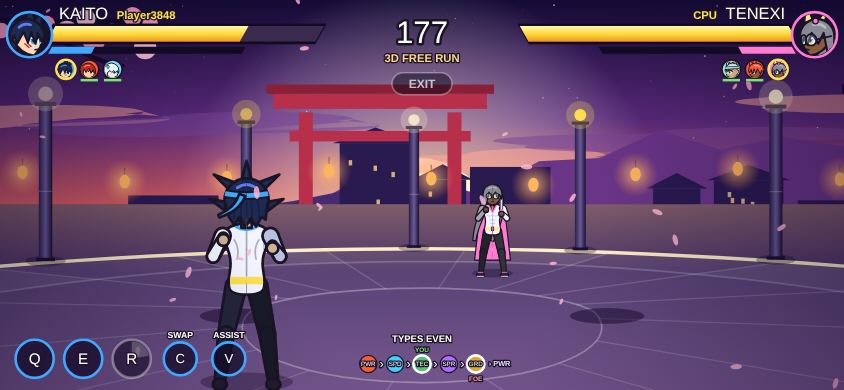
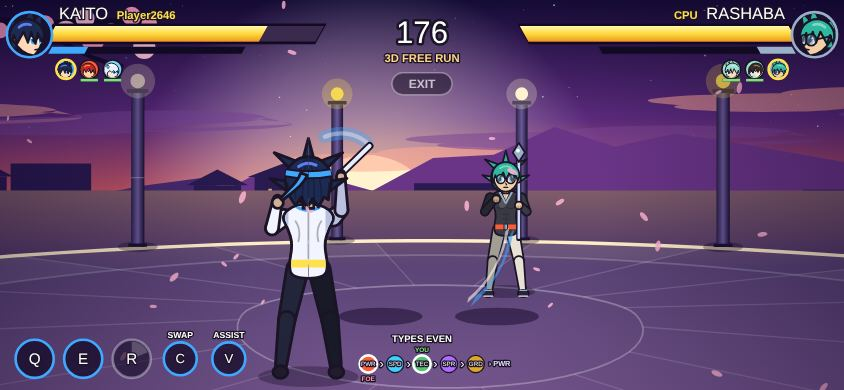
3D FREE RUN: hands held in front, attacks and ultimates drawn from over the shoulder
Claude-Session: https://claude.ai/code/session_017cgwRBCAgYAgyBwMSYA7Tu

diff --git a/look.js b/look.js
@@ -114,8 +114,13 @@ function drawFrontChar(c,o){const SQ=o.stance?1:0,t=o.t||0,ex=o.expr||'',ink=INK
  g.fillStyle='rgba(255,255,255,.14)';g.beginPath();g.ellipse(-4*bk,-101,4*bk,5,0,0,TAU);g.fill();g.strokeStyle='rgba(0,0,0,.22)';g.lineWidth=1.2;g.beginPath();g.moveTo(-10*bk,-97);g.quadraticCurveTo(-5*bk,-93.5,-.6,-97);g.moveTo(.6,-97);g.quadraticCurveTo(5*bk,-93.5,10*bk,-97);g.moveTo(0,-95);g.lineTo(0,-78);g.moveTo(-4*bk,-89);g.lineTo(4*bk,-89);g.moveTo(-3.6*bk,-83.5);g.lineTo(3.6*bk,-83.5);g.stroke();
  g.beginPath();g.moveTo(-6,-116);g.lineTo(6,-116);g.lineTo(0,-103);g.closePath();g.fillStyle=c.skin;g.fill();g.strokeStyle=ink;g.lineWidth=1.4;g.stroke();g.strokeStyle=c.col;g.lineWidth=2.2;g.beginPath();g.moveTo(-7.5,-115);g.lineTo(0,-101.5);g.lineTo(7.5,-115);g.stroke();
  g.fillStyle=c.col2;g.fillRect(-16*bk,-77,32*bk,5.4);g.fillStyle=ink;g.fillRect(-2.6,-78,5.2,7.4);g.fillStyle=c.col;g.fillRect(-1.5,-77,3,5.4);g.restore();
- [-1,1].forEach(sx=>{const up=o.win&&sx<0,fr=o.arms==='front',S={x:sx*17.5*bk,y:-107-br},E=SQ&&!fr&&!up?{x:sx*24*bk,y:-92}:fr?{x:sx*20.5*bk,y:-90}:up?{x:sx*26*bk,y:-121}:{x:sx*21*bk,y:-89},Hd=SQ&&!fr&&!up?{x:sx*(sx<0?11:15)*bk,y:-108+(sx<0?0:7)}:fr?{x:sx*3.4,y:-75}:up?{x:sx*23*bk,y:-144+Math.sin(t*6)*1.5}:{x:sx*19*bk,y:-71};seg2(S,E,5.9*bk,4.6*bk,sx<0?c.topSh:c.top);seg2(E,Hd,4.6*bk,3.5*bk,c.bare?(sx<0?c.skinSh:c.skin):(sx<0?c.topSh:c.top));
-  if(sx>0&&c.weapon!=='fist'&&!fr)weapon(c,Hd,FA[c.weapon]||0,o,false);const gl=c.weapon==='fist',r=gl?(c.fistR||8.2)*.8:4.5;circ(Hd.x,Hd.y+2,r,gl?c.col2:(sx<0?c.skinSh:c.skin),ink,2);g.strokeStyle='rgba(0,0,0,.4)';g.lineWidth=.9;g.beginPath();[-.45,0,.45].forEach(k=>{g.moveTo(Hd.x+k*r,Hd.y+2+r*.15);g.lineTo(Hd.x+k*r,Hd.y+2+r*.95)});g.stroke()});
+ /* o.atk (3D arena): an attack that comes toward the camera: the hitting hand swings in to the middle and grows, a weapon sweeps across, a kick shows the sole of the foot */
+ const AT=o.atk||null,ap=AT?Math.sin(clamp(AT.u,0,1)*Math.PI):0;
+ [-1,1].forEach(sx=>{const up=o.win&&sx<0,fr=o.arms==='front',hit=AT&&AT.k!==1&&sx===AT.arm?ap:0,S={x:sx*17.5*bk,y:-107-br};let E=SQ&&!fr&&!up?{x:sx*24*bk,y:-92}:fr?{x:sx*20.5*bk,y:-90}:up?{x:sx*26*bk,y:-121}:{x:sx*21*bk,y:-89},Hd=SQ&&!fr&&!up?{x:sx*(sx<0?11:15)*bk,y:-108+(sx<0?0:7)}:fr?{x:sx*3.4,y:-75}:up?{x:sx*23*bk,y:-144+Math.sin(t*6)*1.5}:{x:sx*19*bk,y:-71};
+  if(hit){E={x:sx*lerp(24,21,hit)*bk,y:lerp(-92,-101,hit)};Hd={x:sx*lerp(13,6,hit)*bk,y:lerp(-106,-95,hit)}}
+  seg2(S,E,5.9*bk,4.6*bk,sx<0?c.topSh:c.top);seg2(E,Hd,4.6*bk,3.5*bk*(1+.5*hit),c.bare?(sx<0?c.skinSh:c.skin):(sx<0?c.topSh:c.top));
+  if(sx>0&&c.weapon!=='fist'&&!fr)weapon(c,Hd,(FA[c.weapon]||0)+(AT&&AT.k===2?(AT.u-.5)*2.4:0),o,false);const gl=c.weapon==='fist',r=(gl?(c.fistR||8.2)*.8:4.5)*(1+1.25*hit);circ(Hd.x,Hd.y+2,r,gl?c.col2:(sx<0?c.skinSh:c.skin),ink,2);g.strokeStyle='rgba(0,0,0,.4)';g.lineWidth=.9;g.beginPath();[-.45,0,.45].forEach(k=>{g.moveTo(Hd.x+k*r,Hd.y+2+r*.15);g.lineTo(Hd.x+k*r,Hd.y+2+r*.95)});g.stroke()});
+  if(AT&&AT.k===1&&ap>.05){const sx=AT.arm,K={x:sx*10*bk,y:-58-6*ap},Ft={x:sx*7*bk,y:-50+6*ap},fr2=5+11*ap;seg2({x:sx*7*bk,y:-68},K,7.6*bk,6.6*bk,c.pants);seg2(K,Ft,6.6*bk,6*bk,c.pants);g.beginPath();g.ellipse(Ft.x,Ft.y,fr2*.8,fr2,0,0,TAU);g.fillStyle=c.bare?c.skinSh:'#221c2e';g.fill();g.strokeStyle=ink;g.lineWidth=2;g.stroke();g.strokeStyle='rgba(255,255,255,.3)';g.lineWidth=1.3;g.beginPath();g.ellipse(Ft.x,Ft.y,fr2*.5,fr2*.68,0,0,TAU);g.stroke()}
  g.fillStyle=c.skinSh;g.fillRect(-3.8,-121,7.6,8);g.strokeStyle=ink;g.lineWidth=2;g.strokeRect(-3.8,-121,7.6,8);
  g.save();g.translate(0,-132);[-1,1].forEach(sx=>{g.beginPath();g.ellipse(sx*14.4,3,2.4,3.8,0,0,TAU);g.fillStyle=c.skin;g.fill();g.strokeStyle=ink;g.lineWidth=1.8;g.stroke()});
  g.beginPath();g.moveTo(-14,0);g.arc(0,0,14,Math.PI,TAU);g.quadraticCurveTo(14,10.5,6,15.6);g.quadraticCurveTo(0,18.6,-6,15.6);g.quadraticCurveTo(-14,10.5,-14,0);g.closePath();g.fillStyle=c.skin;g.fill();g.strokeStyle=ink;g.lineWidth=2;g.stroke();
@@ -1416,11 +1421,15 @@ try{window.COMBO_TITLE_CH=['KENKO','NETO']}catch(e){}
    /* the body turns to look 3D (Trey): stepping or running into the screen shows the fighter's back, toward the camera shows their front. The turn is a quick swivel: the side view narrows, swaps to the front or back drawing, and widens again; they bob as they run. */
    /* every angle of the body (Trey: a drawing of every angle): the turn goes side view -> three-quarter view -> full front (toward the camera) or full back (into the screen), in both directions, so eight directions in all.
       The three-quarter views are the front or back drawing with the far half of the body drawn narrower than the near half, which is what a body turned 45 degrees looks like. */
-   try{const meF=G.f[G.me||0],frr=A()==='free'&&(f.state==='idle'||f.state==='run'||f.state==='guard'),tn=frr?Math.max(f.a3tn||0,clamp((ph-.45)/.6,0,1)):(f.a3tn||0);if(tn>.03&&!sil&&f.c){
+   try{const meF=G.f[G.me||0],fat=A()==='free'&&f.state==='atk'&&f.mv&&!sil,frr=A()==='free'&&(f.state==='idle'||f.state==='run'||f.state==='guard'||fat),tn=frr?Math.max(f.a3tn||0,clamp((ph-.45)/.6,0,1)):(f.a3tn||0);if(tn>.03&&!sil&&f.c){
      if(tn<.3){const sx=1-.5*(tn/.3);g.translate(f.x,0);g.scale(sx,1);g.translate(-f.x,0)}
      else{const q=clamp((tn-.3)/.7,0,1),far=lerp(.34,1,q*q),near=lerp(.72,1,q),away=frr&&ph>.45?(f===meF):(f.a3td||1)<0,mov=f.state==='run'||f.a3c,fn=away?window.CBACK:(window.CFRONT||drawFrontChar),bob=mov?Math.abs(Math.sin(G.t*11))*5:f.a3s?Math.sin(f.a3s.t/.34*Math.PI)*7:0,sc=f.c.sc||1,fs=(f.face||1)*(away?-1:1);
-      if(fn){g.fillStyle='rgba(10,4,24,.3)';g.beginPath();g.ellipse(f.x,0,34*sc,7,0,0,TAU);g.fill();/* they keep their fighting stance while turned (Trey): legs apart with bent knees and both hands up; the back view walks its legs while moving */const o={t:G.t+f.side*1.7,expr:away?'':'angry',stance:1,walk:mov?G.t*12:0};
-       [1,-1].forEach(h=>{const k=(h===fs?far:near);g.save();g.translate(f.x+(fs*(near-far)*9*sc),f.y-bob);g.scale(k*sc,sc);g.beginPath();g.rect(h>0?0:-260,-420,260,520);g.clip();try{fn(f.c,o)}catch(e){}g.restore()});return}}}
+      if(fn){g.fillStyle='rgba(10,4,24,.3)';g.beginPath();g.ellipse(f.x,0,34*sc,7,0,0,TAU);g.fill();/* they keep their fighting stance while turned (Trey): legs apart with bent knees and both hands up; the back view walks its legs while moving */const o={t:G.t+f.side*1.7,expr:away?'':'angry',stance:1,fwd:1,walk:mov?G.t*12:0};
+       /* hands in front and attacks in front (Trey): in FREE RUN the arms are held in front of the body, and attacks and ultimates are drawn from the same over-the-shoulder view, thrown forward at the opponent (yours away from the camera, theirs toward it) */
+       let lg=0;if(fat){let id='';try{id=mvId(f)||''}catch(e){}const ult=id==='U',wb=['katana','dagger','staff','bo'].includes(f.c.weapon),n=ult?Math.floor(f.st*3.4):(+id[1]||0),u=ult?(f.st*3.4)%1:clamp(f.st/(f.mv.dur||.4),0,1);
+        o.atk={u,k:wb?2:(f.c.weapon==='fist'&&!ult&&(id==='L3'||id==='H'||id==='AH'))?1:0,arm:wb?1:(n%2?1:-1)};o.expr=away?'':'yell';lg=Math.sin(u*Math.PI);
+        if(ult){g.save();g.translate(f.x,f.y-70*sc);for(let r=0;r<3;r++){const q2=(G.t*1.6+r/3)%1;g.globalAlpha=(1-q2)*.6;g.strokeStyle=r%2?'#fff':f.c.col;g.lineWidth=5*(1-q2)+1;g.beginPath();g.ellipse(0,0,(30+q2*90)*sc,(40+q2*110)*sc,0,0,TAU);g.stroke()}g.restore()}}
+       [1,-1].forEach(h=>{const k=(h===fs?far:near);g.save();g.translate(f.x+(fs*(near-far)*9*sc),f.y-bob+(away?-7:8)*lg*sc);g.scale(k*sc*(1+(away?-.05:.09)*lg),sc*(1+(away?-.05:.09)*lg));g.beginPath();g.rect(h>0?0:-260,-420,260,520);g.clip();try{fn(f.c,o)}catch(e){}g.restore()});return}}}
     /* attacks, hits and falls only exist as side drawings; seen from over the shoulder they are drawn narrower, as a body moving into or out of the screen would look */
     if(A()==='free'&&!sil){const q=clamp((ph-.45)/.6,0,1);if(q>0){g.translate(f.x,0);g.scale(lerp(1,.58,q),1);g.translate(-f.x,0)}}
     return df0.apply(this,arguments)}finally{g.restore();

diff --git a/story.js b/story.js
@@ -1769,16 +1769,27 @@ function drawEm2(f){const e=f.em2;if(!e)return;const sc=f.c.sc||1,t=e[1],k=e[0],
  g.restore()}
 /* full body seen from behind */
 function segB(a,b,r0,r1,fill){const dx=b.x-a.x,dy=b.y-a.y,L=Math.hypot(dx,dy)||1,nx=-dy/L,ny=dx/L;g.beginPath();g.moveTo(a.x+nx*r0,a.y+ny*r0);g.lineTo(b.x+nx*r1,b.y+ny*r1);g.arc(b.x,b.y,r1,Math.atan2(ny,nx),Math.atan2(-ny,-nx),true);g.lineTo(a.x-nx*r0,a.y-ny*r0);g.arc(a.x,a.y,r0,Math.atan2(-ny,-nx),Math.atan2(ny,nx),true);g.closePath();g.fillStyle=fill;g.fill();g.strokeStyle=INK;g.lineWidth=2;g.stroke()}
-function drawBackChar(c,o){const SQ=o.stance?1:0,t=o.t||0,ink=INK,A=c.acc||[],long=[1,2,5,6,7].includes(c.style),bk=(c.sc>1.07||c.dm>1)?1.12:1,br=Math.sin(t*3)*.8,wk=o.walk||0;g.lineJoin='round';g.lineCap='round';
- [-1,1].forEach(sx=>{const sw=wk?Math.sin(wk+(sx>0?0:Math.PI))*5:0;segB({x:sx*(6.2+1.5*SQ)*bk,y:-70},{x:sx*(7.6+7.5*SQ)*bk,y:-37+2*SQ-sw*.4},7.6*bk,5.8*bk,sx>0?c.pantsSh:c.pants);segB({x:sx*(7.6+7.5*SQ)*bk,y:-37+2*SQ-sw*.4},{x:sx*(8.2+11*SQ)*bk,y:-3-Math.max(0,sw)},5.8*bk,3.9,sx>0?c.pantsSh:c.pants);
-  g.beginPath();g.ellipse(sx*(8.6+11*SQ)*bk,1.6-Math.max(0,sw),5.2,4.4,0,0,TAU);g.fillStyle=c.bare?c.skinSh:'#221c2e';g.fill();g.strokeStyle=ink;g.lineWidth=2;g.stroke()});
+function drawBackChar(c,o){const SQ=o.stance?1:0,t=o.t||0,ink=INK,A=c.acc||[],long=[1,2,5,6,7].includes(c.style),bk=(c.sc>1.07||c.dm>1)?1.12:1,br=Math.sin(t*3)*.8,wk=o.walk||0,AT=o.atk||null,ap=AT?Math.sin(clamp(AT.u,0,1)*Math.PI):0;g.lineJoin='round';g.lineCap='round';
+ [-1,1].forEach(sx=>{const sw=wk?Math.sin(wk+(sx>0?0:Math.PI))*5:0,kk=AT&&AT.k===1&&sx===AT.arm?ap:0;segB({x:sx*(6.2+1.5*SQ)*bk,y:-70},{x:sx*(7.6+7.5*SQ+7*kk)*bk,y:-37+2*SQ-sw*.4-26*kk},7.6*bk,5.8*bk,sx>0?c.pantsSh:c.pants);segB({x:sx*(7.6+7.5*SQ+7*kk)*bk,y:-37+2*SQ-sw*.4-26*kk},{x:sx*(8.2+11*SQ+4*kk)*bk,y:-3-Math.max(0,sw)-62*kk},5.8*bk,3.9*(1-.2*kk),sx>0?c.pantsSh:c.pants);
+  g.beginPath();g.ellipse(sx*(8.6+11*SQ+4*kk)*bk,1.6-Math.max(0,sw)-64*kk,5.2*(1-.25*kk),4.4*(1-.25*kk),0,0,TAU);g.fillStyle=c.bare?c.skinSh:'#221c2e';g.fill();g.strokeStyle=ink;g.lineWidth=2;g.stroke()});
+ /* seen from behind with the hands in front (o.fwd, o.atk: used by the 3D arena): the arms are drawn before the body, so the body covers them and the hands show past the shoulders; an attack reaches forward, away from us */
+ const FWD=o.fwd||AT,WB={katana:[46,'#e8eefc'],dagger:[24,'#e8eefc'],staff:[58,'#b98c5c'],bo:[58,'#b98c5c']}[c.weapon];
+ const arms=()=>{[-1,1].forEach(sx=>{const sw=wk?Math.sin(wk+(sx>0?Math.PI:0))*3:0,S={x:sx*17.5*bk,y:-107-br};let E=SQ?{x:sx*24.5*bk,y:-92+sw*.4}:{x:sx*21*bk,y:-89+sw*.4},Hd=SQ?{x:sx*(sx<0?17:19)*bk,y:-106+(sx<0?0:6)+sw*.5}:{x:sx*19.5*bk,y:-71+sw},hr=1;
+   if(FWD){E={x:sx*25.5*bk,y:-99+sw*.4};Hd={x:sx*21.5*bk,y:-119+(sx<0?0:5)+sw*.5};hr=.92}
+   const hit=AT&&AT.k!==1&&sx===AT.arm?ap:0;if(hit){E={x:sx*lerp(25.5,22,hit)*bk,y:lerp(-99,-118,hit)};Hd={x:sx*lerp(21.5,23.5,hit)*bk,y:lerp(-119,-146,hit)};hr=.92-.26*hit}
+   if(WB&&FWD&&sx===(AT?AT.arm:1)){const sl=AT&&AT.k===2?(AT.u-.5)*2.6*sx:-.25*sx,L=WB[0]*(.82-.2*hit),tx=Hd.x+Math.sin(sl)*L,ty=Hd.y-Math.cos(sl)*L*.8;
+    if(AT&&AT.k===2&&ap>.15){g.save();g.globalAlpha=.55*ap;g.strokeStyle=c.col;g.lineWidth=9;g.beginPath();g.arc(Hd.x,Hd.y,L*.9,-Math.PI/2+sl-sx*1.1,-Math.PI/2+sl,sx<0);g.stroke();g.strokeStyle='#fff';g.lineWidth=3;g.stroke();g.restore()}
+    g.strokeStyle=ink;g.lineWidth=5.5;g.beginPath();g.moveTo(Hd.x,Hd.y);g.lineTo(tx,ty);g.stroke();g.strokeStyle=WB[1];g.lineWidth=2.8;g.stroke()}
+   segB(S,E,5.9*bk,4.6*bk,sx>0?c.topSh:c.top);segB(E,Hd,4.6*bk,3.5*bk*hr,c.bare?(sx>0?c.skinSh:c.skin):(sx>0?c.topSh:c.top));
+   const gl=c.weapon==='fist',r=(gl?(c.fistR||8.2)*.8:4.3)*hr;circ(Hd.x,Hd.y+2,r,gl?c.col2:c.skinSh,ink,2);
+   if(hit>.35&&!WB){g.save();g.globalAlpha=(hit-.35)*1.3;g.strokeStyle=(c.weapon==='orb'||c.weapon==='bow')?c.col:'#fff';g.lineWidth=2.4;g.beginPath();g.arc(Hd.x,Hd.y-6,r+5+hit*7,Math.PI*1.05,Math.PI*1.95);g.stroke();g.restore()}})};
+ if(FWD)arms();
  const TP=[[-11,-65],[-12.6,-74],[-10,-88],[-13.4,-100-br],[-18,-108-br],[-9,-115],[9,-115],[18,-108-br],[13.4,-100-br],[10,-88],[12.6,-74],[11,-65]].map(q=>[q[0]*bk,q[1]]);
  const sm=()=>{const n=TP.length;let m=[(TP[n-1][0]+TP[0][0])/2,(TP[n-1][1]+TP[0][1])/2];g.beginPath();g.moveTo(m[0],m[1]);for(let i=0;i<n;i++){const j=(i+1)%n;m=[(TP[i][0]+TP[j][0])/2,(TP[i][1]+TP[j][1])/2];g.quadraticCurveTo(TP[i][0],TP[i][1],m[0],m[1])}g.closePath()};
  sm();g.strokeStyle=ink;g.lineWidth=4;g.stroke();g.fillStyle=c.top;g.fill();g.save();sm();g.clip();g.fillStyle=c.topSh;g.fillRect(-22*bk,-120,8*bk,60);g.fillRect(12*bk,-120,10*bk,60);
  g.strokeStyle='rgba(0,0,0,.28)';g.lineWidth=1.3;g.beginPath();g.moveTo(0,-112);g.lineTo(0,-78);g.moveTo(-9*bk,-104);g.quadraticCurveTo(-5*bk,-98,-7*bk,-90);g.moveTo(9*bk,-104);g.quadraticCurveTo(5*bk,-98,7*bk,-90);g.stroke();
  g.strokeStyle=c.col;g.lineWidth=2.2;g.beginPath();g.moveTo(-8,-114);g.quadraticCurveTo(0,-109,8,-114);g.stroke();g.fillStyle=c.col2;g.fillRect(-16*bk,-77,32*bk,5.4);g.restore();
- [-1,1].forEach(sx=>{const sw=wk?Math.sin(wk+(sx>0?Math.PI:0))*3:0,S={x:sx*17.5*bk,y:-107-br},E=SQ?{x:sx*24.5*bk,y:-92+sw*.4}:{x:sx*21*bk,y:-89+sw*.4},Hd=SQ?{x:sx*(sx<0?17:19)*bk,y:-106+(sx<0?0:6)+sw*.5}:{x:sx*19.5*bk,y:-71+sw};segB(S,E,5.9*bk,4.6*bk,sx>0?c.topSh:c.top);segB(E,Hd,4.6*bk,3.5*bk,c.bare?(sx>0?c.skinSh:c.skin):(sx>0?c.topSh:c.top));
-  const gl=c.weapon==='fist',r=gl?(c.fistR||8.2)*.8:4.3;circ(Hd.x,Hd.y+2,r,gl?c.col2:c.skinSh,ink,2)});
+ if(!FWD)arms();
  if(c.style===7||c.style===3){poly([[-17*bk,-112],[17*bk,-112],[26*bk,-26],[-26*bk,-26]],c.style===7?c.col:c.col2,ink,2);g.strokeStyle='rgba(0,0,0,.22)';g.lineWidth=1.4;g.beginPath();g.moveTo(-6,-108);g.lineTo(-10,-30);g.moveTo(6,-108);g.lineTo(10,-30);g.stroke()}
  g.fillStyle=c.skinSh;g.fillRect(-3.8,-121,7.6,8);g.strokeStyle=ink;g.lineWidth=2;g.strokeRect(-3.8,-121,7.6,8);
  g.save();g.translate(0,-132);[-1,1].forEach(sx=>{g.beginPath();g.ellipse(sx*14.6,3,2.4,3.8,0,0,TAU);g.fillStyle=c.skinSh;g.fill();g.strokeStyle=ink;g.lineWidth=1.8;g.stroke()});
